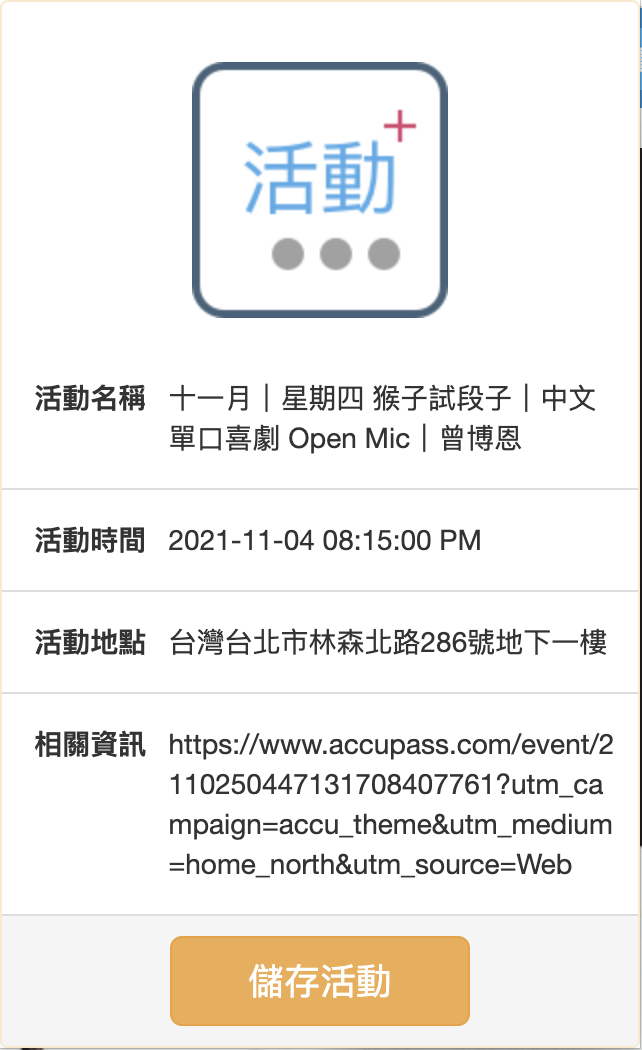
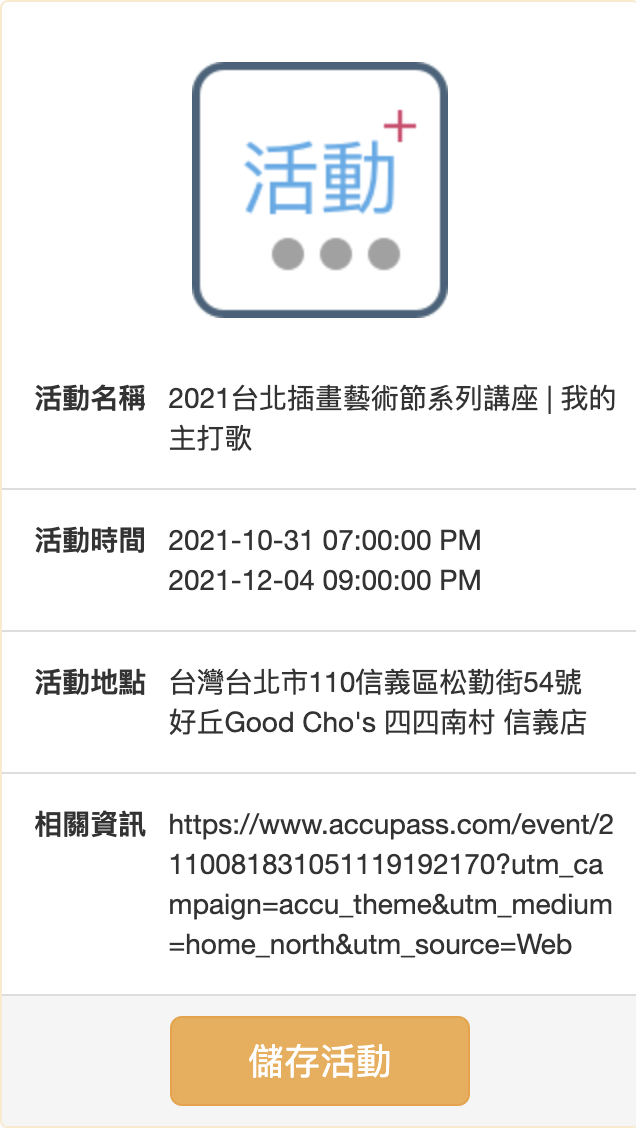
初始化專案架構

diff --git a/js/popup.js b/js/popup.js
@@ -3,9 +3,9 @@ var $divForms         = $('#div-forms');
 var $modalAnimateTime = 300;
 var $msgAnimateTime   = 150;
 var $msgShowTime      = 2000;
+var submitData        = {};
 
 function onPageDetailsReceived(pageDetails) {
-    console.log(pageDetails)
     if(typeof pageDetails.title == "undefined"){
         $("#content-title").text("頁面不支援活動行事曆");
         $("#content-detail").text("頁面不支援活動行事曆");
@@ -23,25 +23,13 @@ function onPageDetailsReceived(pageDetails) {
     }else{
         $("#content-title").text(pageDetails.title);
         $("#content-detail").text(pageDetails.url);
-        var getScheduleDate = moment(pageDetails.dateTime).format('YYYY-MM-DD hh:mm:ss A');
-        $("#content-dateTime").text(getScheduleDate);
+        var startScheduleDate = moment(pageDetails.startTime).format('YYYY-MM-DD hh:mm:ss A');
+        var endScheduleDate   = moment(pageDetails.endTime).format('YYYY-MM-DD hh:mm:ss A');
+        $("#content-dateTime").html(startScheduleDate +"<br/>"+endScheduleDate);
         $("#content-location").text(pageDetails.location);
-
-        //轉換地址到經緯度
-        var geocoder = new google.maps.Geocoder();
-        geocoder.geocode({
-            'address': pageDetails.location
-        }, function(results, status) {
-            if (status == google.maps.GeocoderStatus.OK) {
-                $('#Hidden1').val(results[0].geometry.location.lat()); //緯度
-                $('#Hidden2').val(results[0].geometry.location.lng()); //經度
-                $('#Hidden3').val(results[0].formatted_address); //地址
-                $('#Hidden4').val(results[0].place_id); //placeId
-            }
-        });
+        submitData = pageDetails;
     }
 }
-
 // When the popup HTML has loaded
 window.addEventListener('load', function(evt) {
     chrome.runtime.getBackgroundPage(function(eventPage) {
@@ -49,7 +37,52 @@ window.addEventListener('load', function(evt) {
     });
     // Get the event page
     $(document).ready(function() {
-    
+        $("#saveScheduleToCalendar").on('click', function() {
+            chrome.identity.getAuthToken({ 'interactive': true },
+            function(current_token) {
+                if (!chrome.runtime.lastError) {
+                    chrome.identity.removeCachedAuthToken({ token: current_token },
+                        function() {});
+                    var event = {
+                        summary: submitData["title"],
+                        description: submitData["location"],
+                        start: {
+                            'dateTime': moment(submitData["startTime"],'YYYY-MM-DD HH:mm').toDate()
+                        }
+                        ,
+                        end: {
+                            'dateTime':  moment(submitData["endTime"],'YYYY-MM-DD HH:mm').toDate()
+                        }
+                    };
+                    console.log(event);
+                    // return false;
+                    var fetch_options = {
+                        method: 'POST',
+                        headers: {
+                            Authorization: `Bearer ${current_token}`,
+                            'Content-Type': 'application/json',
+                        },
+                        body: JSON.stringify(event),
+                    };
+                    fetch(
+                        'https://www.googleapis.com/calendar/v3/calendars/primary/events',
+                        fetch_options
+                    )
+                    .then((response) => response.json())
+                    .then(function (data) {
+                        console.log(data);
+                        if(data["status"]=="confirmed"){
+                            window.close();
+                            alert("已成功匯入Google行事曆");
+                        }else{
+                            alert(data["error"]["message"]);
+                        }
+                    });
+                }else{
+                    alert("無法取得相關Google Calendar API");
+                }
+            });
+        });
     });
 });
 

diff --git a/js/content_scripts.js b/js/content_scripts.js
@@ -1,10 +1,11 @@
 switch (config.param1) {
     case "accupass": //accupass活動
-
-        var dateTime = "";
+        var startTime = "";
+        var endTime   = "";
         try{
             var dateTime = getUrlVars(document.getElementsByClassName("style-cc266487-calendar-link")[0].getAttribute("href"))['dates'];
-            dateTime     = decodeURIComponent(dateTime).split("/")[0];
+            startTime     = decodeURIComponent(dateTime).split("/")[0];
+            endTime       = decodeURIComponent(dateTime).split("/")[1];
         }catch (error){
         }
         var tagHref = document.getElementsByClassName("style-e6c7200c-event-detail-link");
@@ -18,7 +19,8 @@ switch (config.param1) {
         chrome.runtime.sendMessage({
             'title': document.getElementsByClassName("style-41874173-event-title")[0].innerText,
             'location': locationText,
-            'dateTime':dateTime,
+            'startTime':startTime,
+            'endTime':endTime,
             'url': window.location.href
         });
         break;

diff --git a/popup.html b/popup.html
@@ -55,7 +55,7 @@
                         </li>
                     </ul>
                     <div class="panel-footer">
-                        <button type="button" class="btn btn-warning btn-lg" id="saveScheduleToTimeer" data-loading-text="<i class='fa fa-spinner fa-spin '></i> 正在儲存..." style="width: 150px;" >儲存活動</button>
+                        <button type="button" class="btn btn-warning btn-lg" id="saveScheduleToCalendar" data-loading-text="<i class='fa fa-spinner fa-spin '></i> 正在儲存..." style="width: 150px;" >儲存活動</button>
                     </div>
                 </div>
             </div>

diff --git a/js/background.js b/js/background.js
@@ -26,7 +26,7 @@ chrome.tabs.onActivated.addListener(function(activeInfo, tab) {
     chrome.tabs.get(activeInfo.tabId, function(tab){
        if (getDomainFromUrl(tab.url).toLowerCase() == "www.accupass.com" || getDomainFromUrl(tab.url).toLowerCase() == "www.ticket.com.tw" || getDomainFromUrl(tab.url).toLowerCase() == "member.eztravel.com.tw" || getDomainFromUrl(tab.url).toLowerCase() == "www.colatour.com.tw") {
             globalObj.url = getDomainFromUrl(tab.url).toLowerCase();
-            chrome.pageAction.show(tabId);
+            chrome.pageAction.show(tab.id);
         }
     });
 });
